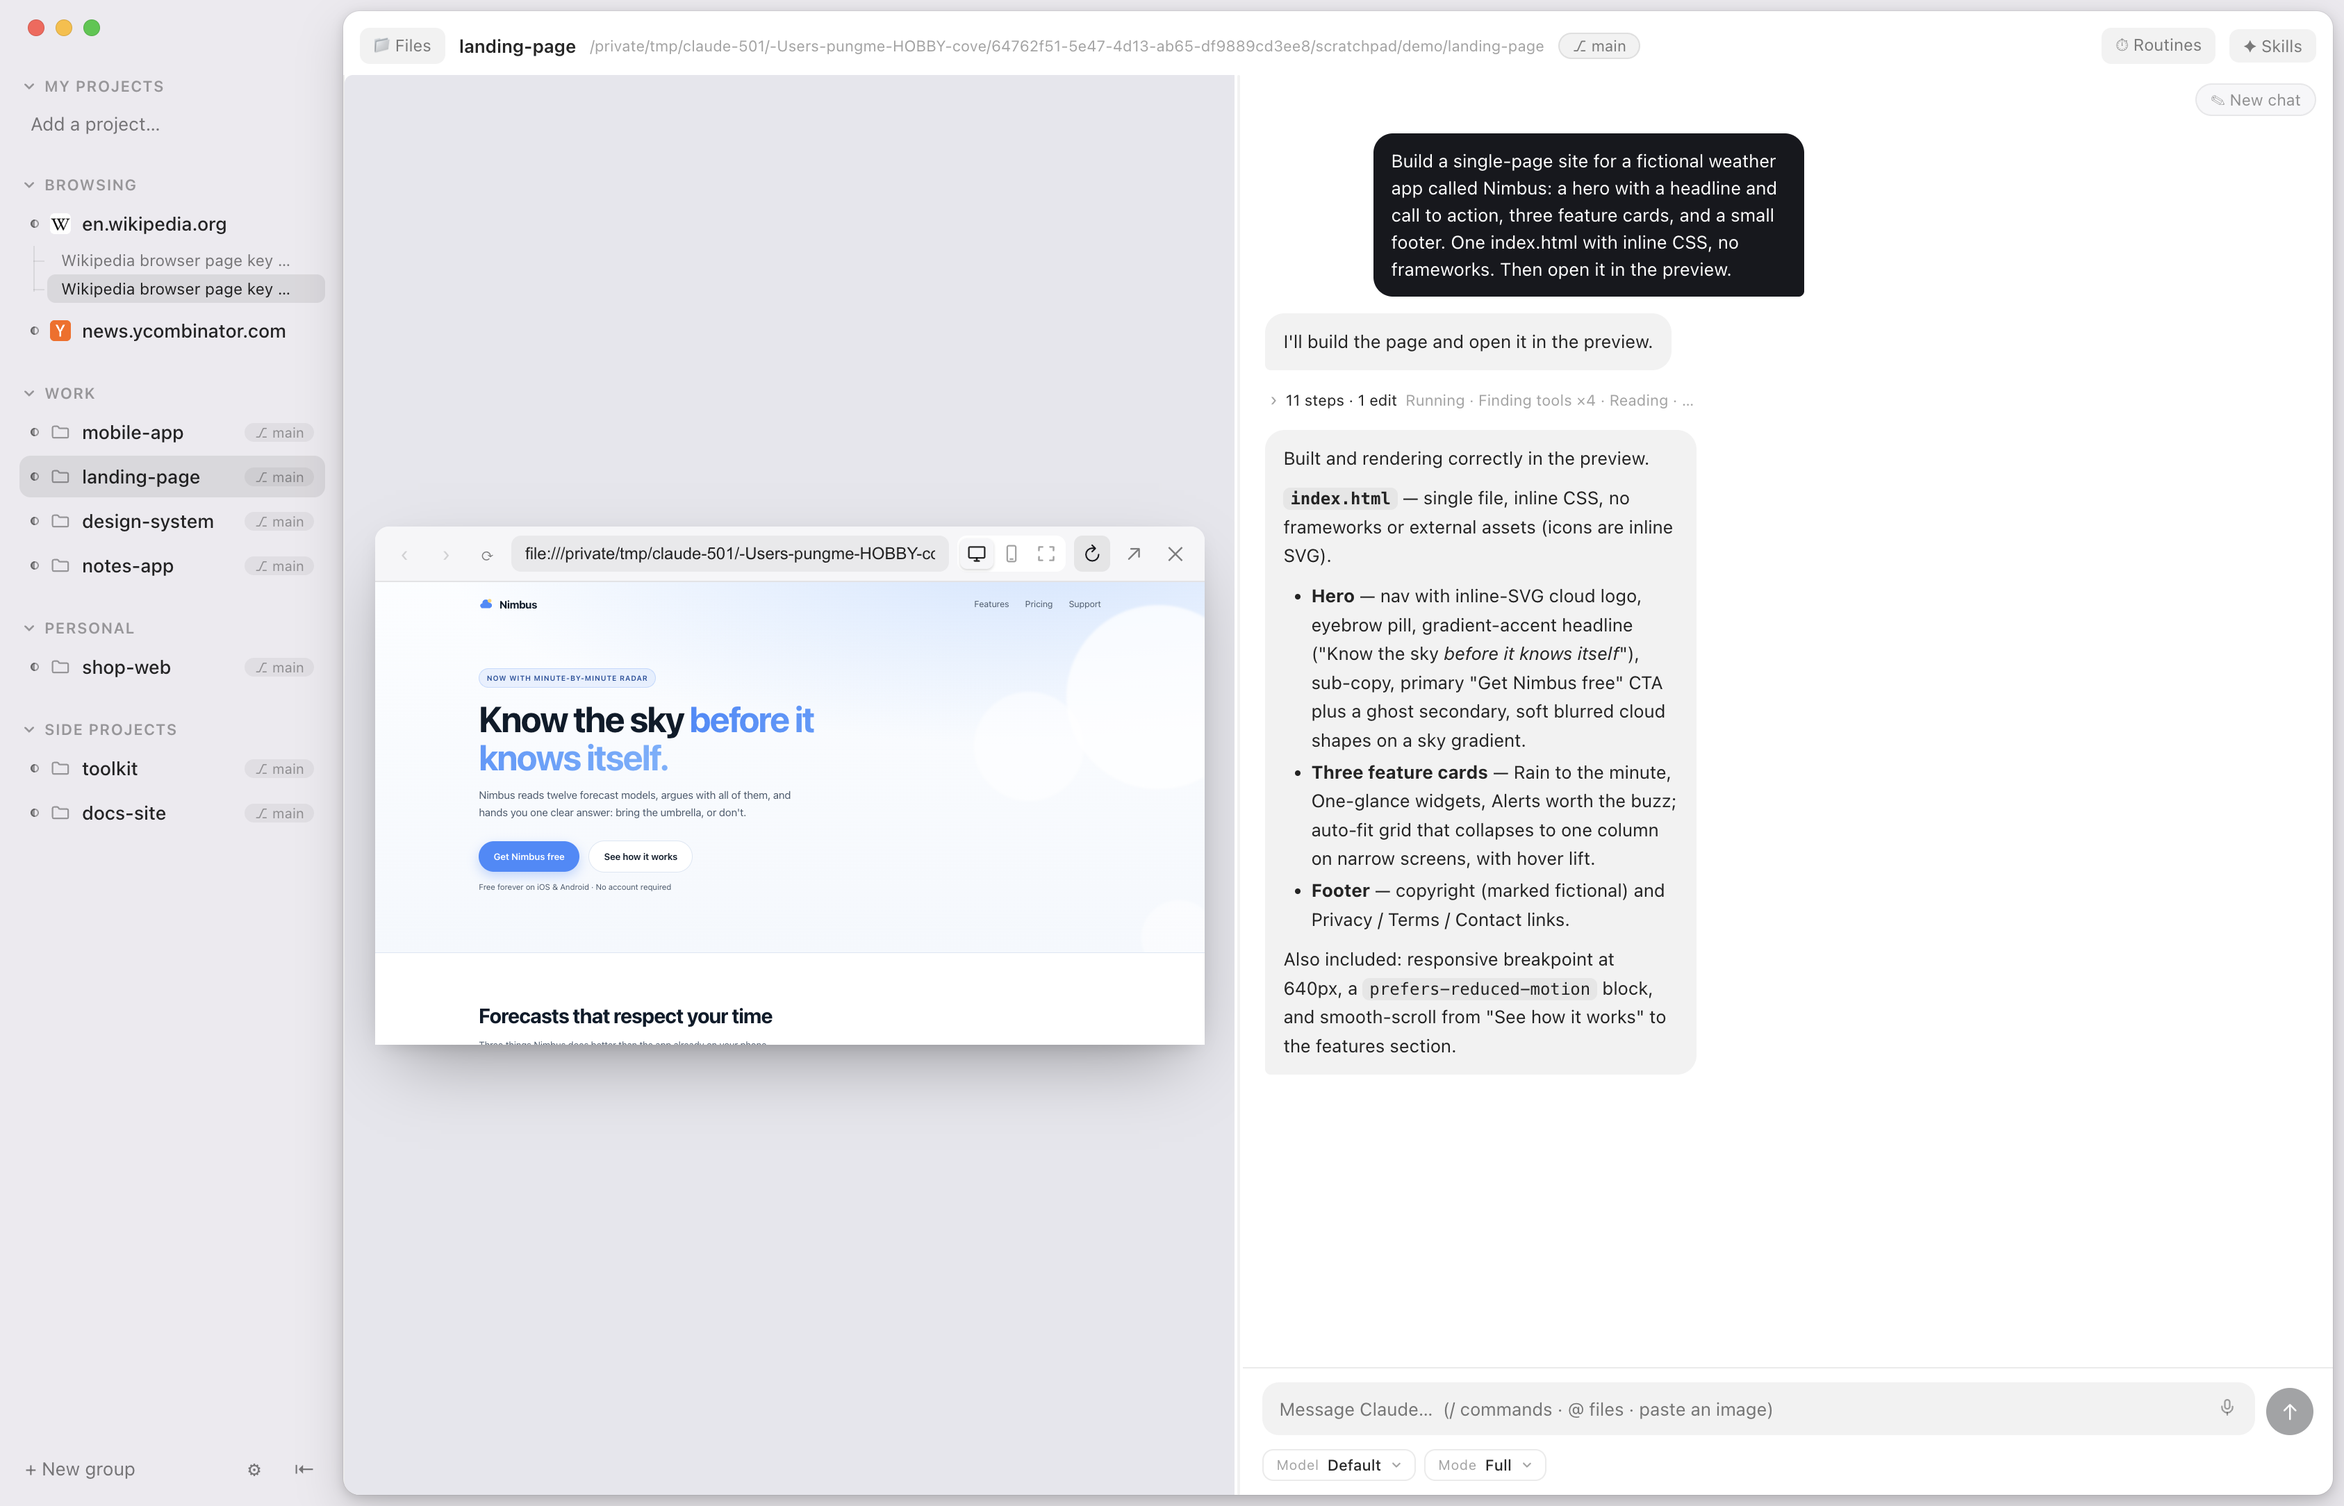
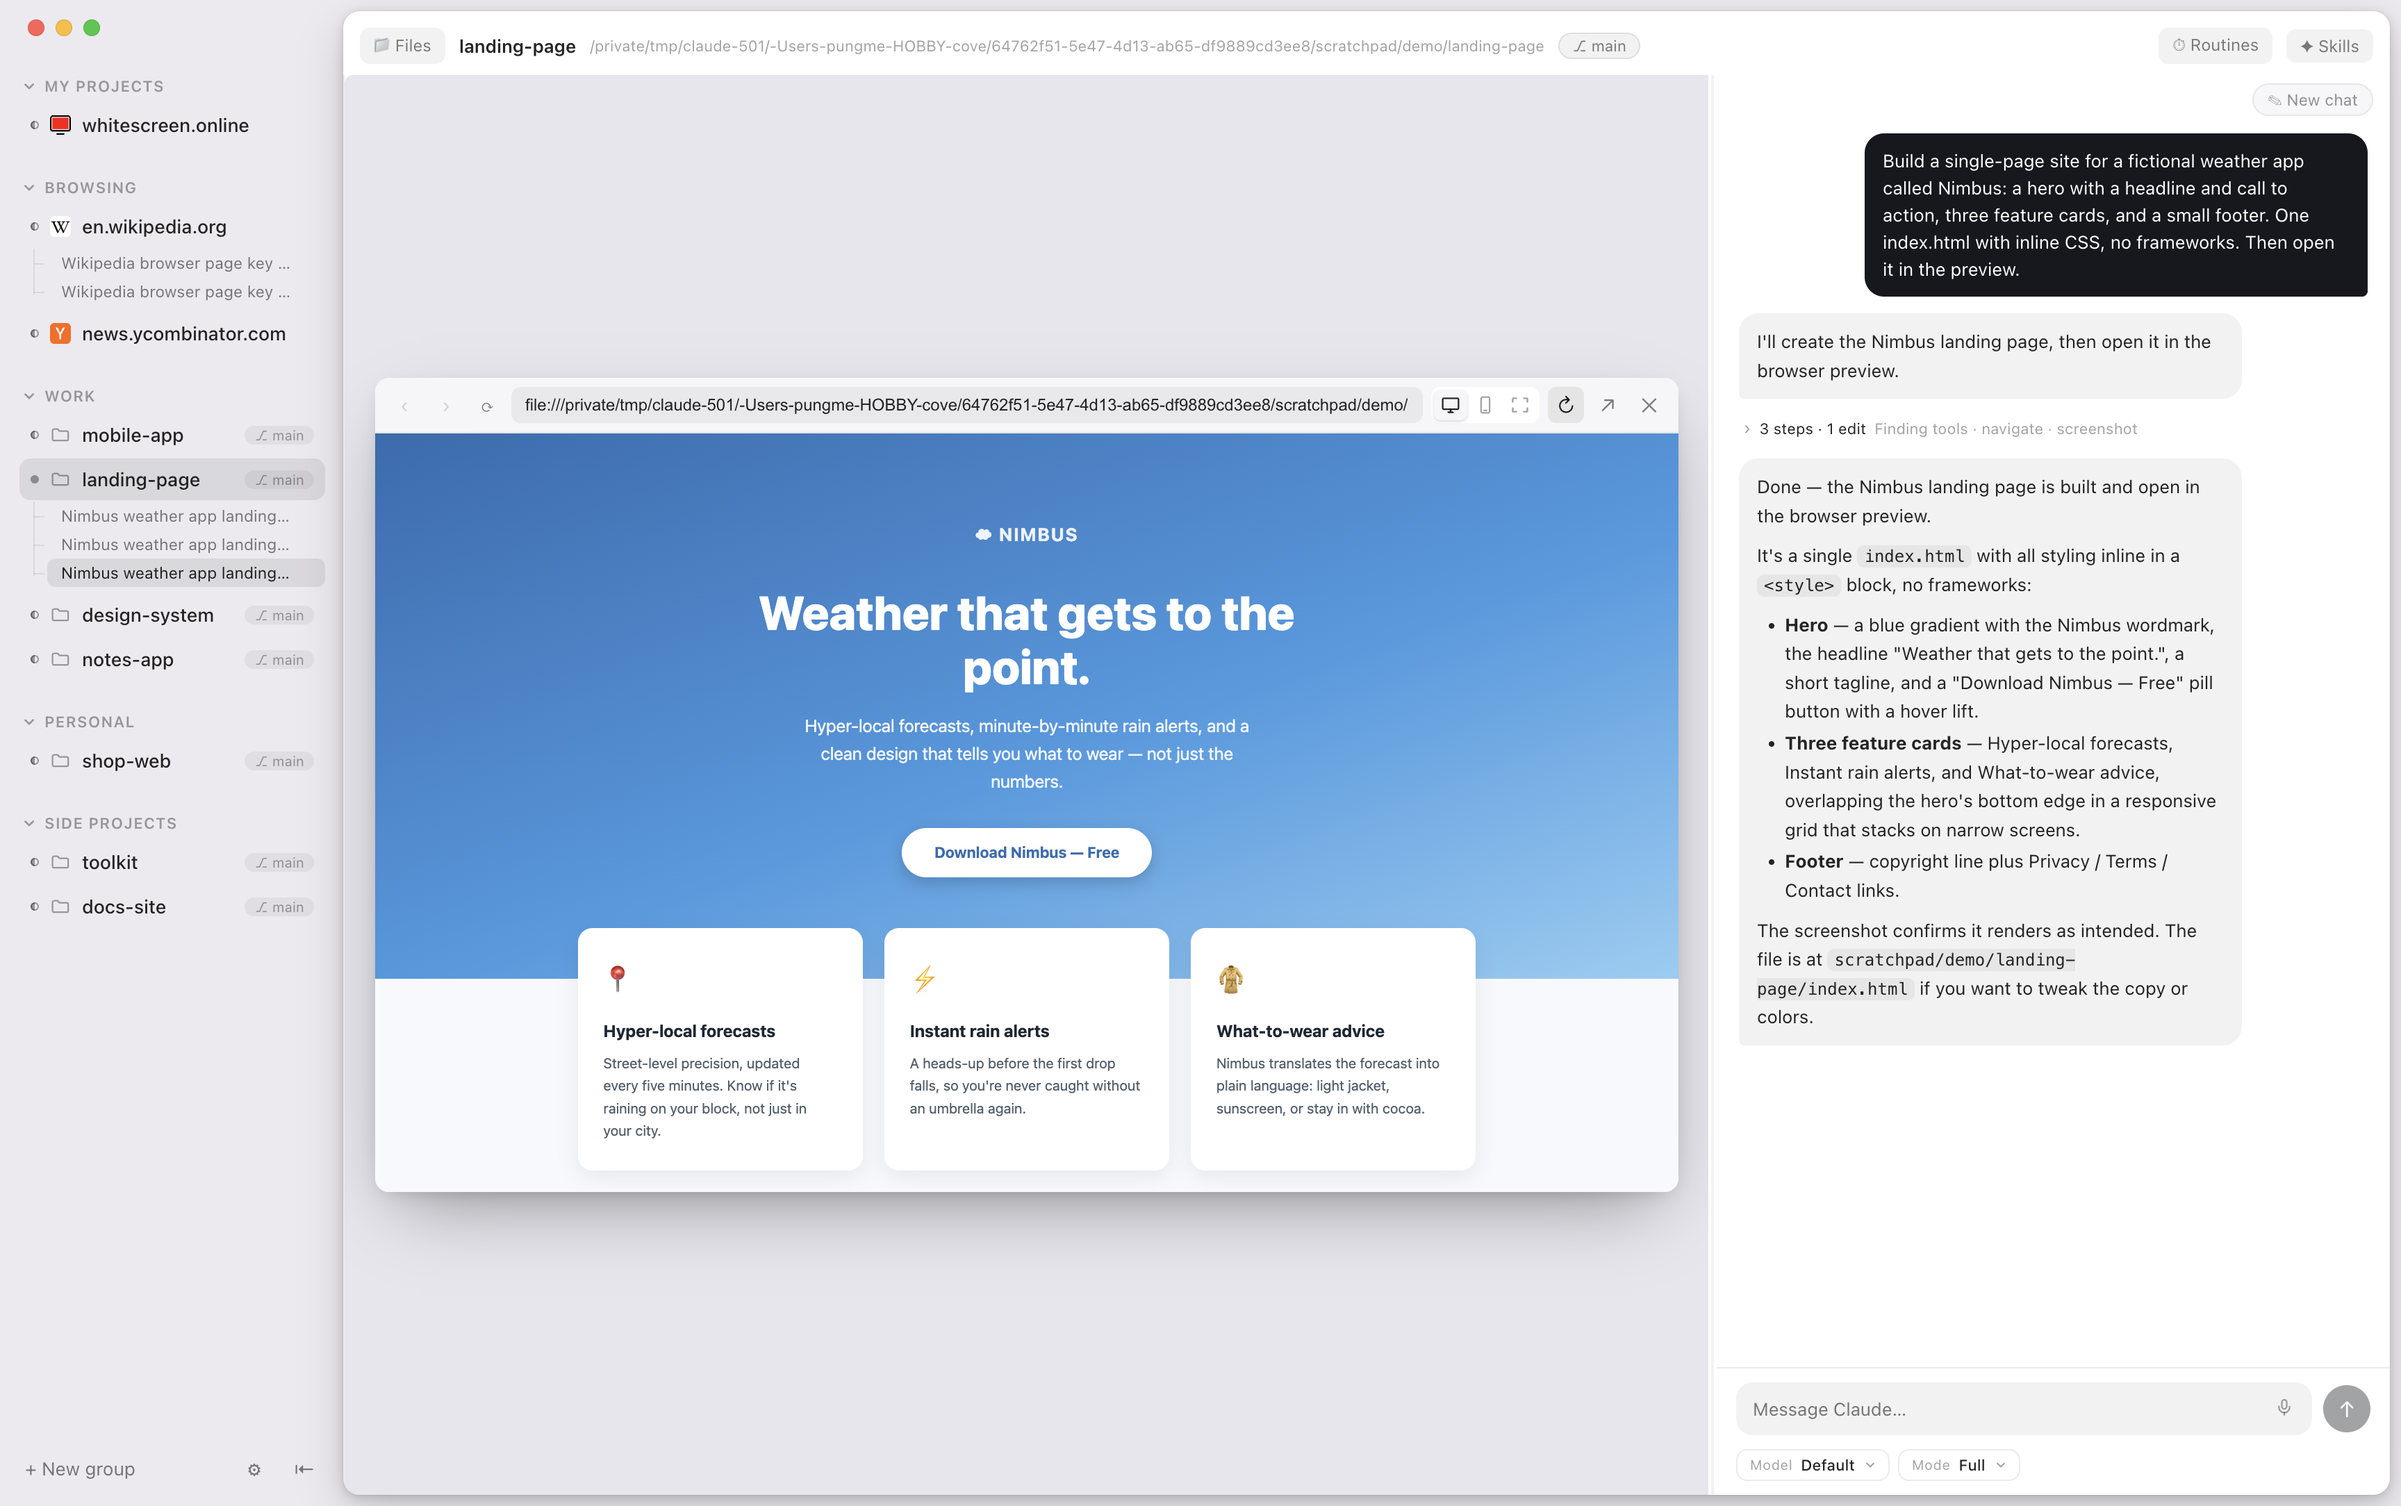
Updater failures are visible; full-res screenshots; 1.0.10
- The updater's error event only reached the console, so a failed download
  looked like "downloading — you'll get a restart prompt" forever, with no pill
  and no explanation (reported in the wild). Errors now broadcast to the UI:
  Settings shows what failed, the stuck progress state clears, and the check
  button — locked during a healthy download, since pressing it again mid-flight
  can only confuse the updater — unlocks as the retry.

- Screenshot tooling captures the pane via main's capturePage (full display
  resolution) instead of a debugger screenshot of the zoomed page, which held
  ~1.5x pixels stretched to 2x — the reason earlier shots were soft. The paste
  also carries the pane's real rounded-bottom shape now.

- Re-shot the landing page set (hero, browser-view, build) sharp and against
  the 1.0.9 look.

diff --git a/app/src/preload/index.ts b/app/src/preload/index.ts
@@ -85,6 +85,8 @@ export interface CoveApi {
   browserSetRadius: (id: string, radius: number) => void
   /** Sampled colours of the page's top corners, for the DOM backfills. */
   browserSampleCorners: (id: string) => Promise<{ left: string; right: string } | null>
+  /** Full-res PNG bytes of the pane (screenshot tooling). */
+  browserShoot: (id: string) => Promise<Uint8Array | null>
   /** Photograph the pane and detach it in one step; returns the JPEG bytes. */
   browserFreeze: (id: string) => Promise<Uint8Array | null>
   checkPort: (port: number) => Promise<boolean>
@@ -101,6 +103,8 @@ export interface CoveApi {
   onUpdateReady: (cb: (version: string) => void) => () => void
   /** Download progress for an update found in the background (percent 0-100). */
   onUpdateProgress: (cb: (p: { version: string | null; percent: number }) => void) => () => void
+  /** The updater failed (download/verify) — surfaced so the UI can say so. */
+  onUpdateError: (cb: (message: string) => void) => () => void
   installUpdate: () => void
 
   storeTree: () => Promise<TreeGroup[]>
@@ -228,6 +232,7 @@ const cove: CoveApi = {
   browserSetZoom: (id, factor) => ipcRenderer.send('browser:set-zoom-factor', id, factor),
   browserSetRadius: (id, radius) => ipcRenderer.send('browser:set-radius', id, radius),
   browserSampleCorners: (id) => ipcRenderer.invoke('browser:sample-corners', id),
+  browserShoot: (id) => ipcRenderer.invoke('browser:shoot', id),
   browserFreeze: (id) => ipcRenderer.invoke('browser:freeze', id),
   checkPort: (port) => ipcRenderer.invoke('net:checkPort', port),
   onBrowserZoom: (id, cb) => subscribe(`browser:zoom:${id}`, (f) => cb(f as number)),
@@ -241,6 +246,7 @@ const cove: CoveApi = {
   onUpdateReady: (cb) => subscribe('update:ready', (v) => cb(v as string)),
   onUpdateProgress: (cb) =>
     subscribe('update:progress', (p) => cb(p as { version: string | null; percent: number })),
+  onUpdateError: (cb) => subscribe('update:error', (m) => cb(m as string)),
   installUpdate: () => ipcRenderer.send('update:install'),
   // The agent asked to open a file in-app (open_file tool) → {workspaceId, path}.
   onOpenFile: (cb) =>

diff --git a/app/src/renderer/src/components/Settings.tsx b/app/src/renderer/src/components/Settings.tsx
@@ -18,6 +18,7 @@ export function Settings({ onClose }: SettingsProps): React.JSX.Element {
   const [updateMsg, setUpdateMsg] = useState<string | null>(null)
   // Store-backed, so reopening Settings mid-download still shows the truth.
   const progress = useStore((s) => s.updateProgress)
+  const updateError = useStore((s) => s.updateError)
 
   const checkUpdates = async (): Promise<void> => {
     setChecking(true)
@@ -110,12 +111,20 @@ export function Settings({ onClose }: SettingsProps): React.JSX.Element {
               {' '}
               · Downloading {progress.version ?? 'update'} — {Math.round(progress.percent)}%
             </span>
+          ) : updateError ? (
+            <span className="settings-update-msg"> · Update failed: {updateError}</span>
           ) : (
             updateMsg && <span className="settings-update-msg"> · {updateMsg}</span>
           )}
         </span>
-        <button className="settings-update-check" onClick={checkUpdates} disabled={checking}>
-          {checking ? 'Checking…' : 'Check for updates'}
+        <button
+          className="settings-update-check"
+          onClick={checkUpdates}
+          // Locked while a download runs — pressing it again mid-download can only
+          // confuse the updater. A failure clears the lock: the button IS the retry.
+          disabled={checking || !!progress}
+        >
+          {progress ? 'Downloading…' : checking ? 'Checking…' : 'Check for updates'}
         </button>
       </div>
     </SlideOverPanel>

diff --git a/app/src/renderer/src/state.ts b/app/src/renderer/src/state.ts
@@ -149,6 +149,8 @@ interface CoveState {
   /** An update downloading in the background: version + percent. Store-backed so
       Settings shows it even when reopened mid-download. */
   updateProgress: { version: string | null; percent: number } | null
+  /** Last updater failure, cleared by progress/ready. Settings shows it. */
+  updateError: string | null
 
   /** How much the agent may do without asking. Applies to newly started chats. */
   permissionMode: PermissionMode
@@ -242,6 +244,7 @@ export const useStore = create<CoveState>((set, get) => ({
   busy: {},
   agentLive: {},
   updateProgress: null,
+  updateError: null,
   theme: (localStorage.getItem('cove.theme') as 'system' | 'light' | 'dark') || 'system',
   permissionMode:
     (localStorage.getItem('cove.permissionMode') as PermissionMode) || 'bypassPermissions',

diff --git a/app/src/main/browser.ts b/app/src/main/browser.ts
@@ -399,6 +399,20 @@ export function registerBrowserIpc(): void {
     }
   })
 
+  /** Full-resolution PNG of the pane as composited (screenshot tooling). Unlike
+      a debugger screenshot of the zoomed page, capturePage returns the view at
+      native display scale. */
+  ipcMain.handle('browser:shoot', async (_e, id: string) => {
+    const pane = panes.get(id)
+    if (!pane || !pane.visible || pane.window.isDestroyed()) return null
+    try {
+      const img = await pane.view.webContents.capturePage()
+      return img.isEmpty() ? null : img.toPNG()
+    } catch {
+      return null
+    }
+  })
+
   ipcMain.on('browser:hide', (_e, id: string) => {
     const pane = panes.get(id)
     if (pane) hidePane(pane)

diff --git a/app/src/main/updater.ts b/app/src/main/updater.ts
@@ -67,7 +67,11 @@ export function startAutoUpdate(): void {
   })
 
   autoUpdater.on('error', (err) => {
-    console.error('[updater]', err?.message ?? err)
+    console.error('[updater]', err?.message ??  err)
+    // A silent failure looks like "downloading forever" — the restart pill never
+    // arrives and nothing says why. Tell the UI so Settings can show the failure
+    // and re-enable the check button as the retry.
+    broadcast('update:error', String(err?.message ?? err).slice(0, 200))
   })
 
   // Renderer can trigger the install immediately (quit + relaunch into the update).

diff --git a/app/src/renderer/src/components/UpdateBanner.tsx b/app/src/renderer/src/components/UpdateBanner.tsx
@@ -29,11 +29,15 @@ export function UpdateBanner(): React.JSX.Element | null {
       useStore.setState({ updateProgress: null }) // downloading is over
     })
     const offProgress = window.cove.onUpdateProgress((p) => {
-      useStore.setState({ updateProgress: p })
+      useStore.setState({ updateProgress: p, updateError: null })
+    })
+    const offError = window.cove.onUpdateError((m) => {
+      useStore.setState({ updateProgress: null, updateError: m })
     })
     return () => {
       offReady()
       offProgress()
+      offError()
     }
   }, [])
 

diff --git a/app/src/renderer/src/components/BrowserPane.tsx b/app/src/renderer/src/components/BrowserPane.tsx
@@ -583,7 +583,11 @@ export function BrowserPane({
           </button>
         )}
       </div>
-      <div ref={hostRef} className={`browser-host ${viewport !== 'none' ? 'sim' : ''}`}>
+      <div
+        ref={hostRef}
+        className={`browser-host ${viewport !== 'none' ? 'sim' : ''}`}
+        data-pane-id={paneId}
+      >
         {simFrame && visible && (
           <div
             className="browser-sim-frame"
